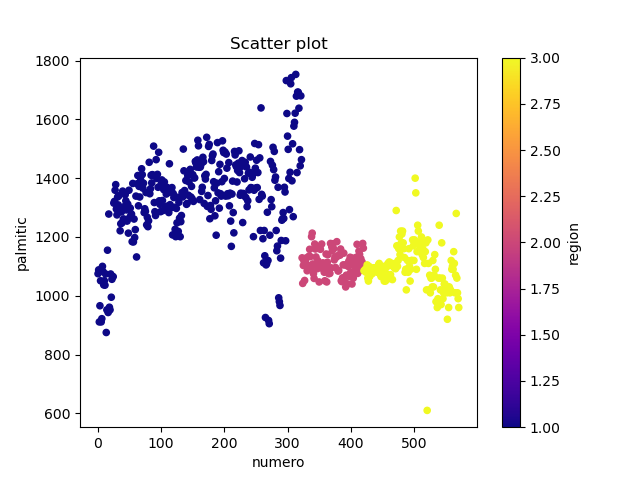
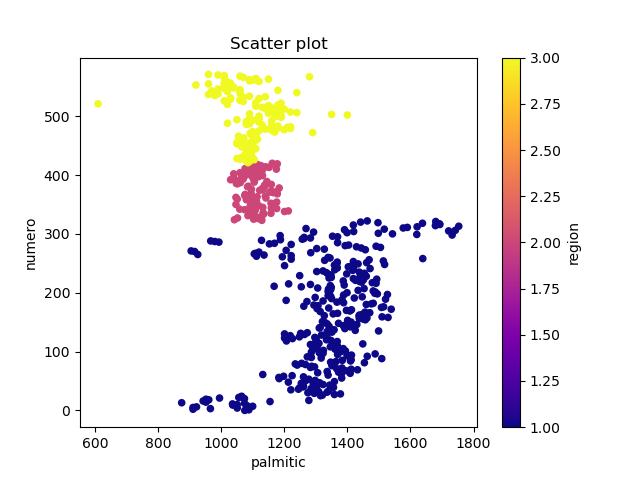
update

diff --git a/ensg/miashs/l3-sd2/tps/cs/index.html b/ensg/miashs/l3-sd2/tps/cs/index.html
@@ -22,7 +22,7 @@
 
     <br/>
 
-    Les 2 TPs précédents (<a href="../df">tableaux de données</a> et <a href="../graphiques">graphiques</a>) doivent avoir été faits.
+    Les 2 TPs précédents (<a href="../df">tableaux de données</a> et <a href="../graphiques">graphiques</a>) doivent impérativement avoir été faits.
 
   </p>
 
@@ -56,11 +56,11 @@
 
     Donc, on commence par faire des graphiques très simples pour voir s'il est possible de prédire la région de provenance de l'olive.
 
-    On commence par la région car il y a 3 régions qui se découpent en 8 zones. Il est donc probablement plus facile de déterminer la région que la zone.
+    On commence par la région car il y a 3 régions (attribut <kbd>region</kbd>) qui se découpent en 8 zones (attributs et <kbd>Area Name</kbd> et <kbd>area</kbd>). Il est donc probablement plus facile de déterminer la région que la zone.
 
     <br/>
 
-    Outre voir les choses, cette exploration visuelle permet de choisir un modèle pour réaliser la tâche de prédiction&nbsp;: si on voit des relations simples, on sait que des modèles simples pourront réaliser les prédictions voulues.
+    Cette exploration visuelle permet également d'orienter le choix d'un modèle pour réaliser la tâche de prédiction&nbsp;: si on voit des relations simples, on sait que des modèles simples pourront réaliser les prédictions voulues.
     
   </p>
   
@@ -77,8 +77,8 @@
   </p>
 
   <ul>
-    <li>En abscisses, c'est le numéro de la donnée (la ligne dans le jeu de données)&nbsp;;</li>
-    <li>en ordonnées, la valeur de l'attribut <kbd>palmitic</kbd>&nbsp;;</li>
+    <li>En ordonnées, c'est le numéro de la donnée (la ligne dans le jeu de données)&nbsp;;</li>
+    <li>en abscisses, la valeur de l'attribut <kbd>palmitic</kbd>&nbsp;;</li>
     <li>la couleur indique la région&nbsp;:
       <ol>
 	<li>sud de l'italie en bleu&nbsp;;</li>
@@ -89,7 +89,7 @@
 
   <p>
 
-    D'un coup d'&oelig;il, on voit que cet attribut ne permet pas de distinguer les olives des 3 classes. En effet, quand on considère une valeur de l'acide palmitique supérieure à 1400, on voit que l'on peut en déduire que l'olive provient de la zone 1&nbsp;: il n'y a que des points bleus à ces ordonnées. Par contre, si cette valeur est comprise entre 1000 et 1200, les 3 classes sont possibles&nbsp;: pour ces ordonnées, on voit des points des 3 couleurs.
+    D'un coup d'&oelig;il, on voit que cet attribut ne permet pas de distinguer les olives des 3 classes. Quand on considère une valeur de l'acide palmitique supérieure à 1400, on voit que l'on peut en déduire que l'olive provient de la zone 1&nbsp;: il n'y a que des points bleus pour ces abscisses&nbsp;: tout va bien. Par contre, si cette valeur est comprise entre 1000 et 1200, les 3 classes sont possibles&nbsp;: pour ces abscisses, on voit des points des 3 couleurs. Donc, si la teneur en acide palmitique est 1100, on ne peut pas déterminer la zone d'origine de l'olive.
 
     <br/>
 
@@ -98,11 +98,32 @@
     <br/>
     <br/>
 
-    <b>À faire&nbsp;:</b> réalisez ce graphique pour chacun des 8 acides et concluez. Y a-t-il un, ou des attributs, qui permet de déterminer la région d'origine&nbsp;? ou qui peut aider&nbsp;?
+    <b>À faire&nbsp;:</b> réalisez ce graphique pour chacun des 8 acides et concluez (vérifiez que vous obtenez bien le même graphique que moi pour l'acide palmitique). Y a-t-il un, ou des attributs, qui permet de déterminer la région d'origine&nbsp;? ou qui peut aider&nbsp;?
 
     <br/>
 
     Remarque&nbsp: pour réaliser ce graphique, j'ai ajouté une colonne <kbd>numero</kbd> au tableau de données <kbd>olives</kbd>. Cette colonne contient tout simplement le numéro de la donnée.
+
+    <br/>
+    <br/>
+
+    <b>À faire&nbsp;:</b> sans dévoiler la solution, vous devez trouver un attribut qui sépare l'une des classes des deux autres. Pour celui-ci, vous obtenez un graphique qui ressemble à celui-ci&nbsp;:
+
+  </p>
+
+  <img src="allure-generale.png" width="500pt" />
+  
+  <p>
+
+    Ce graphique montre que la classe 1 (points bleus) est facilement identifiée grace à cet attribut.
+
+    <br/>
+    
+    Quand vous l'avez trouvé, vous pouvez vous concentrer sur les 2 classes qui sont encore mélangées (jaune et rouge) et recommencer le même raisonnement en vous occupant uniquement des données de ces deux classes. Vous devez trouver un attribut qui sépare bien les 2 classes restantes.
+
+    <br/>
+
+    Quels sont ces deux attributs et comment pouvez-vous déterminer la classe à partir de ces deux attributs&nbsp;?
     
   </p>
 
@@ -136,17 +157,17 @@
 
   <p>
 
-    Même si nous avons vu des relations en faisant nos graphiques, nous avons vu que la solution ne saute pas aux yeux. Nous allons donc essayer de prédire la région d'origine de l'olive à l'aide de méthode qui ont pour objectif d'apprendre un modèle réalisant ce type de prédiction.
+    Il arrive que l'approche visuelle ne permette pas de voir quelque chose (c'est rare). Quoiqu'il en soit, en complément de l'exploration visuelle, nous allons essayer de prédire la région d'origine de l'olive à l'aide de méthodes qui ont pour objectif d'apprendre un modèle réalisant ce type de prédiction.
 
     <br/>
     <br/>
 
-    Face à un jeu de données de petite taille comme celui-ci (quelques centaines de lignes, une dizaine de colonnes), on commence par tester les arbres de décision. C'est ce que nous allons faire.
+    Face à un jeu de données de petite taille comme celui-ci (quelques centaines de lignes, une dizaine de colonnes, quelques classes), on commence par essayer une méthode qui généralement donnent de très bons résultats, les arbres de décision. L'apprentissage d'arbre de décision est très souvent une méthode très efficace, très peu coûteuse en temps de calcul, qui donne de très bonnes performances pour la prédiction de la classe.
 
     <br/>
     <br/>
 
-    Pour cela, on va utiliser la bibliotèque <kbd>scikit_learn</kbd> qu'il vous faut donc importer. Pour pouvoir créer des arbres de décision, on fera&nbsp;: <kbd>from sklearn import tree</kbd>.
+    Pour cela, on va utiliser la bibliotèque <kbd>scikit_learn</kbd>. Pour pouvoir créer des arbres de décision, on fera&nbsp;: <kbd>from sklearn import tree</kbd>.
 
     <br/>
 
@@ -159,28 +180,74 @@
 
   <p>
 
-    Induction
+    Pour induire un modèle, on fait comme suit&nbsp;: le jeu de données est découpé en deux parties, l'une utilisée pour induire le modèle, la seconde pour estimer la probabilité qu'il commette une erreur lors d'une prédiction.
 
     <br/>
+
+    La première partie constitue les données d'entraînement, la seconde les données de test.
+
+    <br/>
+
+    Il est classique d'utiliser 80% des données disponibles comme données d'entraînement, les 20% restant constituant les données de test.
+
+    <br/>
+
+    La répartition entre les deux parties est faite aléatoirement. Il est important de vérifier que les données sont stratifiées, c'est-à-dire que la proportion des données de chaque classe est à peu près la même dans les deux parties.
+
+    <br/>
+    <br/>
+
+    Pour découper le jeu de données en ces deux parties, on fait comme suit&nbsp;:
+
+  </p>
+
+  <ol>
+    <li>on crée un vecteur de N nombres aléatoires uniformément répartis entre 0 et 1, où N est le nombre total de données. Pour cela, on utilise la fonction <kbd>random.rand (N)</kbd> du paquetage <kbd>numpy</kbd>. Appelons ce vecteur <kbd>v</kbd>.</li>
+    <li>À partir de <kbd>v</kbd>, on construit un vecteur booléen qui contient 80% de valeurs <kbd>True</kbd>. Appelons ce vecteur <kbd>b</kbd>. Appelons-le <kbd>olives_train</kbd>.</li>
+    <li>On utilise <kbd>b</kbd> pour construire les deux jeux de données, l'un pour les données d'entraînement, l'autre pour les données de test. Appelons-le <kbd>olives_test</kbd>.</li>
+  </ol>
+  
+  <p>
+
+    Nous pouvons maintenant induire l'arbre de décision.
+
+    <br/>
+    <br/>
+    
+    <b>À faire&nbsp;:</b>
+
+    </p>
+
+  <ol>
+    <li>créer les deux jeux de données <kbd>olives_train</kbd> et <kbd>olives_test</kbd>.</li>
+    <li>Induire un arbre de décision à partir de <kbd>olives_train</kbd>. Il y a beaucoup de paramètres qui peuvent être réglés mais nous nous en tiendrons à leur valeur par défaut dans un premier temps.</li>
+  </ol>
+  
+  <h3>Diagnostic de l'arbre de décision</h3>
+
+  <p>
+
+    Avant même de regarder à quoi l'arbre ressemble, il est important de commencer par déterminer si cet arbre est capable de prédire la classe de manière précise. On va donc estimer la probabilité qu'il commette une erreur lorsqu'il prédit la classe d'une donnée. Pour cela, on&nbsp;:
 
   </p>
 
   <ul>
-    <li>On lance l'algo et on voit.</li>
-    <li>train/test split</li>
-    <li>Si ça ne marche pas, on devra réflêchir aux paramètres...</li>
-  </ul>
-    
-
-  <h3>Diagnostic de l'arbre de décision</h3>
-
-  <ul>
-    <li>taux d'erreur</li>
-    <li>certaines classes mieux prédites que d'autres</li>
+    <li>utilise les données de test que l'on a mis de côté dans <kbd>olives_test</kbd>,</li>
+    <li>on utilise l'arbre pour prédire leur classe,</li>
+    <li>on compare la classe prédite avec la classe de la donnée.</li>
+    <li>On divise le nombre d'erreurs de prédiction par le nombre de données de test&nbsp;: cela nous fournit une estimation de la probabilité d'erreur.</li>
   </ul>
   
   <p>
 
+    <b>À faire&nbsp;:</b> faites ce qui vient d'être expliqué. Quelle est la valeur de cette estimation&nbsp;?
+
+    <br/>
+    <br/>
+
+    Il est intéressant de mesurer ce taux d'erreur pour chaque classe.
+
+    <b>À faire&nbsp;:</b> mesurer le taux d'erreur pour chaque classe. Les 3 classes sont-elles toutes les 3 prédites correctement avec la même probabilité&nbsp;?
     
   </p>
   
@@ -231,8 +298,14 @@ fig.show ()
   <p>
 
     <b>Faites-le.</b>
+
+    <br/>
+    <br/>
+
+    Un arbre de décision peut facilement être transformé en un ensemble de règles de décision. Ici l'arbre est très petit, c'est facile. <b>Faites-le&nbsp;: quelles sont ces règles&nbsp;?</b>
     
   </p>
+
   
   <h3>Test de l'arbre de décision</h3>
 
@@ -240,14 +313,29 @@ fig.show ()
 
     Nous avons construit un arbre de décision qui donne de très bons résultats. Est-ce juste de la chance ou est-ce que décidément, cette tâche se résout facilement à l'aide d'un arbre de décision&nbsp;?
 
-    reproductibilité et multiples runs
-    
-  </p>
-  
-  <h2>yyy</h2>
+    <br/>
+    <br/>
 
+    Pour apporter des éléments de réponse à cette question, on refait plusieurs fois la construction de l'arbre de décision en découpant le jeu de données aléatoirement à chaque fois. Par exemple, on peut refaire toute cette procédure 30 fois (ou 100, ...). Pour chaque arbre induit, on estime sa probabilité d'erreur de prédiction que l'on stocke. Une fois les 30 (ou 100, ...) constructions réalisées, on vérifie que la probabilité d'erreur varie, peu, un peu, beaucoup, ... Si elle varie peu, c'est très signe&nbsp;: tous les arbres induits ont à peu près la même précision, qui est très bonne pour la prédiction de la région d'origine de l'olive.
+
+    <br/>
+    <br/>
+
+    <b>À faire&nbsp;:</b> effectuer ce qui vient d'être expliqué. Que pensez-vous du résultat&nbsp;?
+
+  </p>
+
+  <h3>Reproductibilité</h3>
+  
   <p>
 
+    Pour construire les jeux de données d'entraînement et de test, nous avons utiliser des nombres générés pseudo-aléatoirement. Si vous effectuez ce qui a été expliqué plus haut pour l'induction d'un arbre deux fois de suite, vous obtiendrez des résultats différents (dans le cas présent, la différence est petite). Il est important de pouvoir reproduire les résultats que vous avez obtenu. Pour cela, il faut que les nombres pseudo-aléatoires qui sont générés soient les mêmes d'une exécution à la suivante. Pour obtenir ce résultat, il faut initialiser la <i>graine</i> du généreteur de nombres pseudo-aléatoires. Ces nombres étant générés dans le paquetage <kbd>numpy</kbd>, il faut initialiser cette graine dès que ce paquetage a été chargé. Pour cela, on exécute l'instruction <kbd>np.random.seed (le-nombre-que-vous-voulez)</kbd> où vous remplacez <kbd>le-nombre-que-vous-voulez</kbd> par le nombre que vous voulez, éventuellement avec beaucoup de chiffres.
+
+    <br/>
+    <br/>
+
+    <b>À faire&nbsp;:</b> effectuer l'initialisation de cette graine et refaites toute la procédure d'induction d'arbre. Estimer sa probabiité d'erreur. Si vous effectuez cela plusieurs fois, vous devez obtenir exactement le même résultat à chaque fois.
+    
   </p>
 
   <h2>Pour finir...</h2>

diff --git a/ensg/miashs/l3-sd2/tps/df/index.html b/ensg/miashs/l3-sd2/tps/df/index.html
@@ -93,7 +93,9 @@
     <li>En tapant le nom de l'objet (<kbd>olives</kbd>), python affiche les premières et dernières lignes.</li>
     <li>Quelle est sa taille&nbsp;? nombre de lignes (nombre de données) et nombre de colonnes (nombre d'attributs). Utiliser l'attribut <kbd>shape</kbd> du tableau de données.</li>
     <li>Obtenir la liste des noms d'attributs&nbsp;: utiliser la méthode <kbd>list()</kbd> ou l'attribut <kbd>columns</kbd>. Remarque : tous ces noms qui se terminent pas <kbd>ic</kbd> sont des noms d'acides dont la concentration dans les olives a été mesurée. Les premiers attributs indiquent la région d'Italie d'où provient l'olive.</li>
-    <li>On voit que l'attribut 0 n'a pas de nom. Ce n'est pas très pratique. On lui en donne un en faisant comme cela&nbsp;: <kbd>olives = olives.rename (columns = {"Unnamed: 0": "Region Name"})</kbd>.</li>
+    <li>On voit que l'attribut 0 n'a pas de nom. Ce n'est pas très pratique. On lui en donne un en faisant comme cela&nbsp;:
+      <br/>
+      <kbd>olives.rename (columns = {"Unnamed: 0": "Region Name"}, inplace = True)</kbd>.</li>
   </ul>
 
   <h3>Accès aux éléments d'un tableau de données</h3>
@@ -195,7 +197,7 @@
 
     <br/>
 
-    Pour éviter des erreurs malencontreuse comme calculer la valeur moyenne d'un attribut catégorique, il faut indiquer explicitement les attributs catégoriques. Pour cela, on fait&nbsp;: <kbd>olives ["Region Name"] = olives ["Region Name"].astype("category")</kbd>.
+    Pour éviter des erreurs malencontreuse comme calculer la valeur moyenne d'un attribut catégorique, il faut indiquer explicitement les attributs catégoriques. Pour cela, on fait&nbsp;: <kbd>olives ["Area Name"] = olives ["Area Name"].astype("category")</kbd>.
 
     <br/>
 
@@ -208,7 +210,7 @@
   </p>
 
   <ul>
-    <li>Vérifier que python vous laisse calculer la moyenne des attributs <kbd>Region</kbd> et <kbd>Area</kbd>, ce qui n'a aucun sens.</li>
+    <li>Vérifier que python vous laisse calculer la moyenne des attributs <kbd>region</kbd> et <kbd>area</kbd>, ce qui n'a aucun sens.</li>
     <li>Transformer les en attributs catégoriques.</li>
     <li>Vérifier que vous ne pouvez plus calculer la moyenne de ces attributs.</li>
   </ul>
